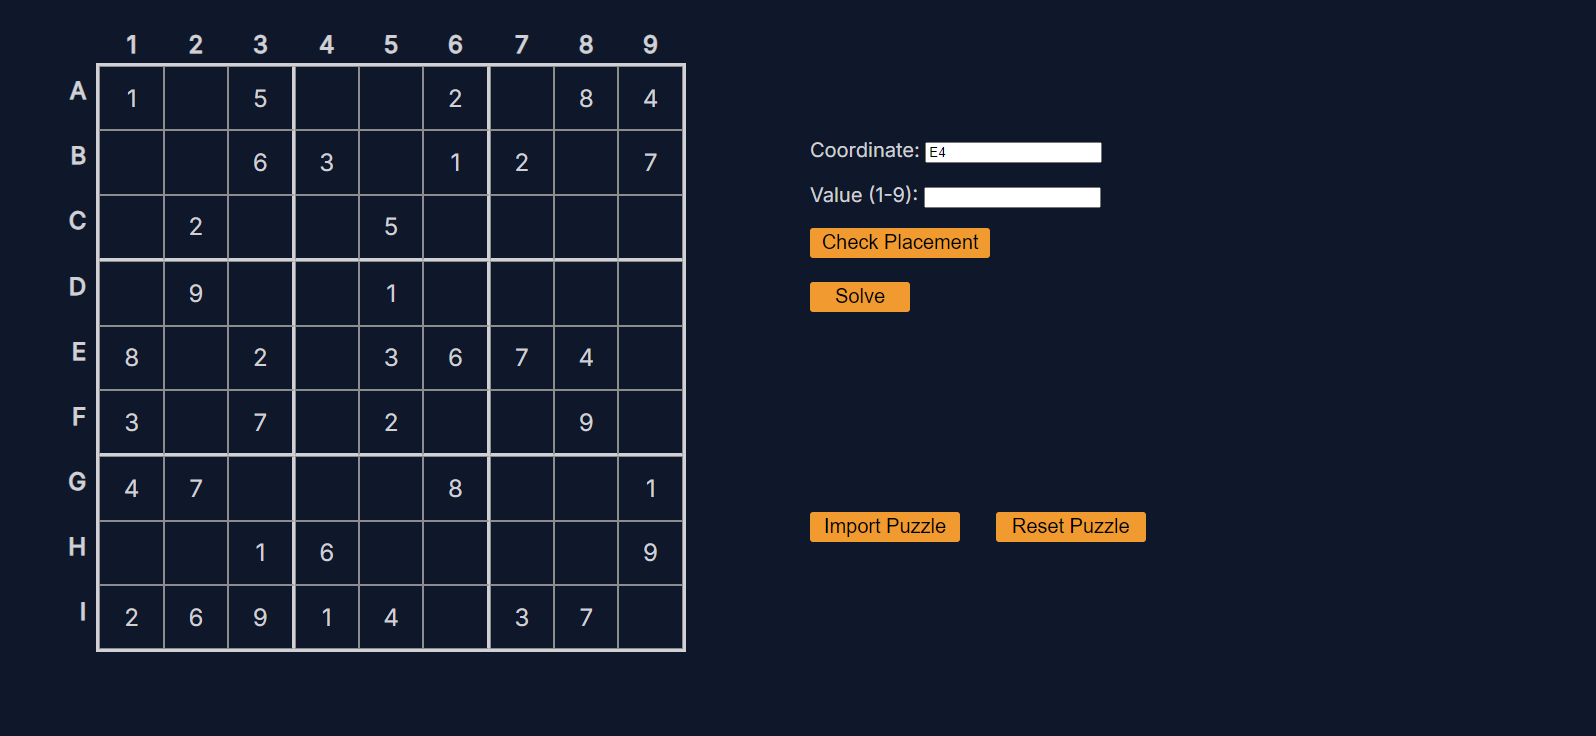
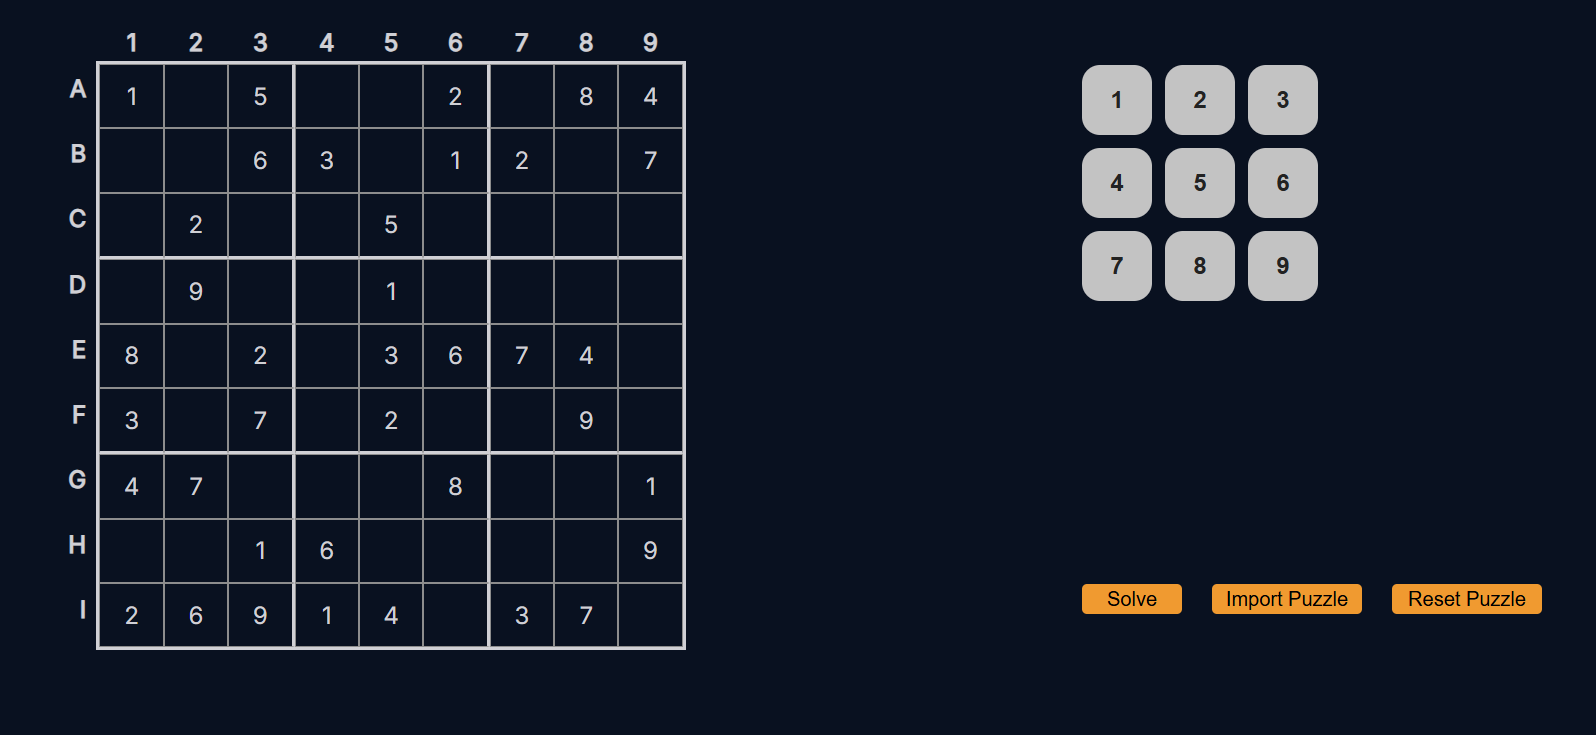
feat: changed image for sudoku solver and changed some project descriptions and tool-chips

diff --git a/src/style.css b/src/style.css
@@ -102,7 +102,7 @@ a {
 #projects {
     display: flex;
     flex-direction: column;
-    width: 37rem;
+    width: 38rem;
     margin-bottom: 130px;
     border-bottom: solid 1px #9f9f9f11;
     padding-bottom: 70px;
